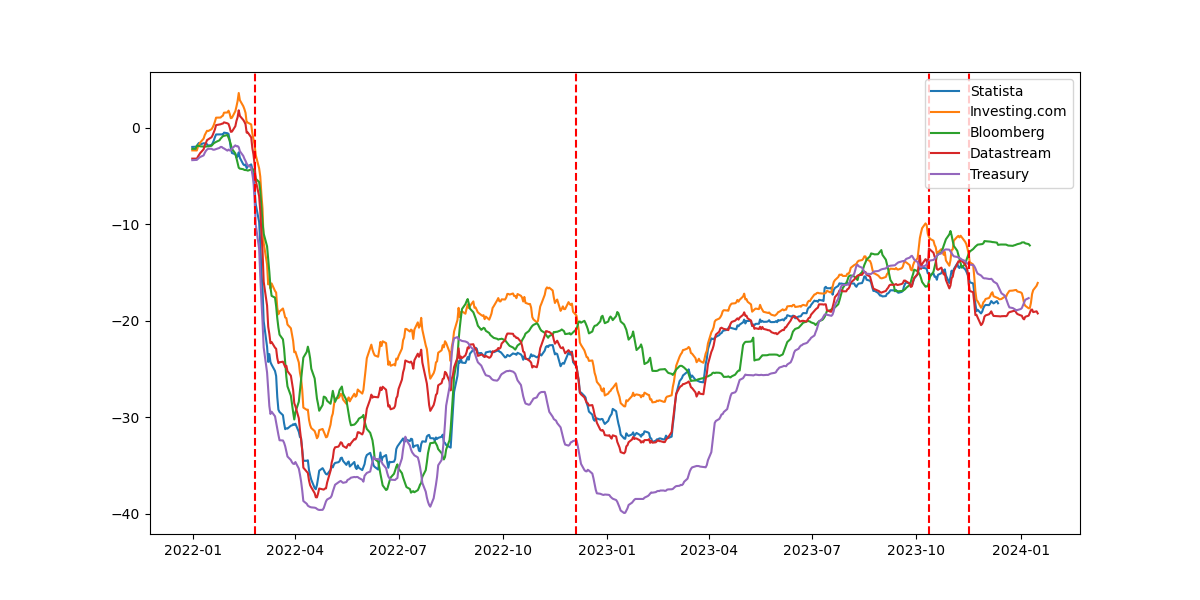
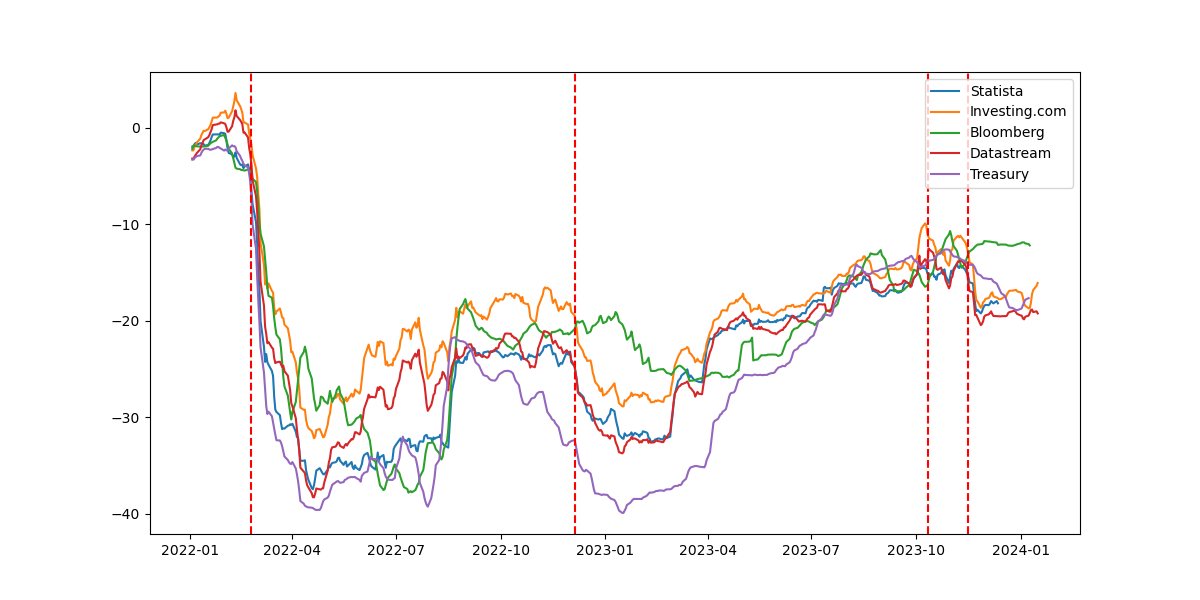
added average extended no treasury

diff --git a/final_products/average.py b/final_products/average.py
@@ -1,5 +1,8 @@
 import matplotlib.pyplot as plt
+import pandas as pd
+from datetime import datetime
 from setup import matching, statista_data, investing_com_data, bloomberg_data, treasury_data, datastream_data
+from setup import investing_total, statista_total, bloomberg_total, treasury_total, datastream_total
 from data_functions import getNextLowestDate
 
 
@@ -27,7 +30,55 @@ def plotAverage(matching, average):
   print('png saved')
   plt.show()
 
+def plotAverageExtended(investing_total, statista_total, bloomberg_total, treasury_total, datastream_total):
+  dates_investing, prices_investing = investing_total
+  dates_statista, prices_statista = statista_total
+  dates_bloomberg, prices_bloomberg = bloomberg_total
+  dates_treasury, prices_treasury = treasury_total
+  dates_datastream, prices_datastream = datastream_total
+
+
+  datasets = [
+    (dates_statista, prices_statista, 'Statista'),
+    (dates_investing, prices_investing, 'Investing.com'),
+    (dates_bloomberg, prices_bloomberg, 'Bloomberg'),
+    (dates_datastream, prices_datastream, 'Datastream'),
+  ]
+
+  average_series_data = {}
+
+  for dates, prices, label in datasets:
+    for date, price in zip(dates, prices):
+      date = datetime.strptime(date, '%m/%d/%y')
+      if date not in average_series_data:
+        average_series_data[date] = [price]
+      else:
+        average_series_data[date].append(price)
+
+  average_dates = []
+  average_prices = []
+
+  for date, prices_list in average_series_data.items():
+    average_dates.append(date)
+    average_prices.append(sum(prices_list) / len(prices_list))
+
+  average_df = pd.DataFrame({'Date': average_dates, 'Average': average_prices})
+  average_df.sort_values(by='Date', inplace=True)
+  average_df.set_index('Date', inplace=True)
+
+  plt.figure(figsize=(12, 6))
+  plt.plot(average_df.index, average_df['Average'], label='Average')
+  plt.axvline(x=pd.to_datetime('02/24/22', format='%m/%d/%y'), color='red', linestyle='--', label='Vertical Line')
+  plt.axvline(x=pd.to_datetime('12/5/22', format='%m/%d/%y'), color='red', linestyle='--', label='Vertical Line')
+  plt.axvline(x=pd.to_datetime('10/12/23', format='%m/%d/%y'), color='red', linestyle='--', label='Vertical Line')
+  plt.axvline(x=pd.to_datetime('11/16/23', format='%m/%d/%y'), color='red', linestyle='--', label='Vertical Line')
+
+  plt.savefig('../saved_pngs/average_extended_no_treasury.png')
+  print('png saved')
+  plt.show()
+
 average = getAverage(matching, statista_data, investing_com_data, bloomberg_data, treasury_data, datastream_data)
 
 if __name__ == "__main__":
   plotAverage(matching, average)
+  plotAverageExtended(investing_total, statista_total, bloomberg_total, treasury_total, datastream_total)

diff --git a/final_products/series.py b/final_products/series.py
@@ -96,4 +96,4 @@ def plotSeriesExtended(investing_total, statista_total, bloomberg_total, treasur
 
 if __name__ == "__main__":
   plotSeries(matching, statista_data, investing_com_data, bloomberg_data, treasury_data, datastream_data)
-  plotSeriesExtended(investing_total, statista_total, bloomberg_total, treasury_total, datastream_total, False)
+  plotSeriesExtended(investing_total, statista_total, bloomberg_total, treasury_total, datastream_total, True)
